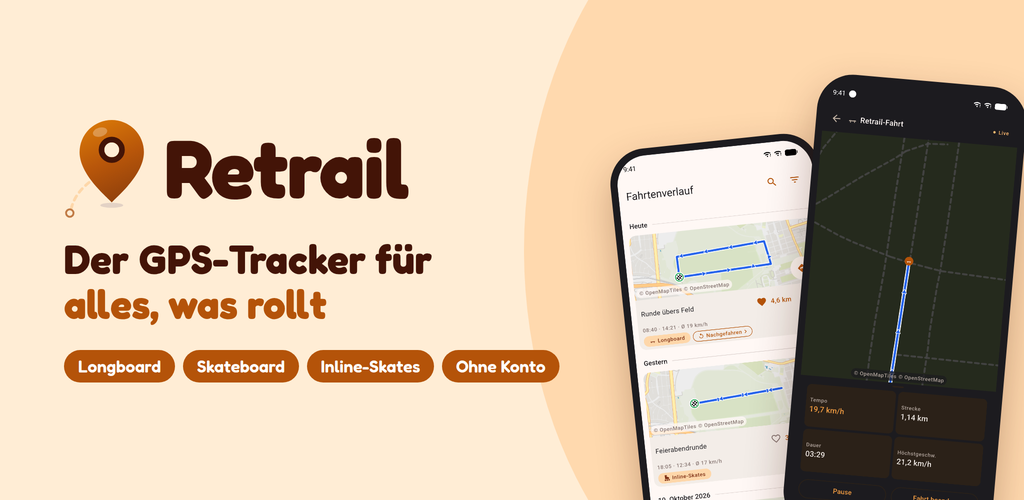
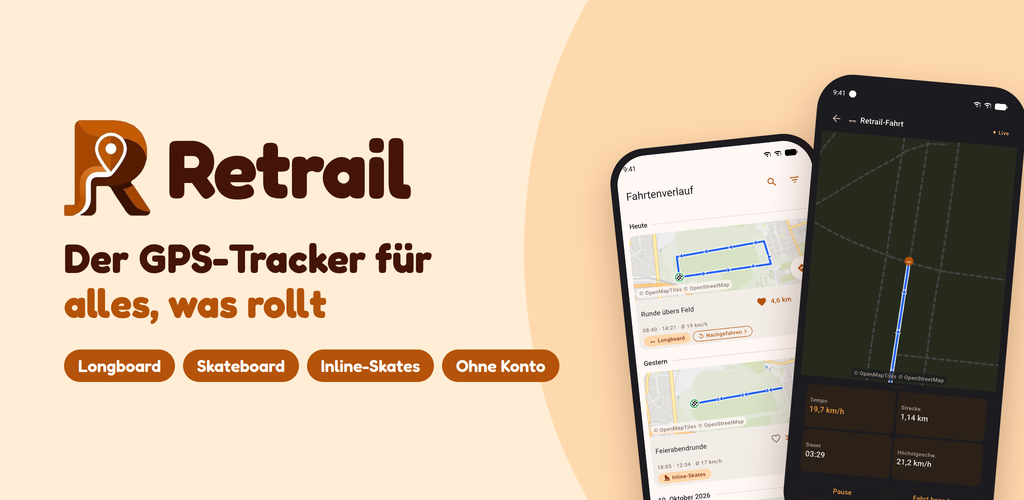
docs(store): show the new mark on the Play feature graphic
The feature graphic still drew the old pin as inline SVG. It now loads
assets/branding/retrail_mark.png; both language variants are re-rendered.

diff --git a/store/play/feature_graphic.html b/store/play/feature_graphic.html
@@ -1,7 +1,7 @@
 <!doctype html>
 <!-- Source of the Play feature graphic (1024 x 500). Render with
      tool/render_store_graphics.sh. Colours are the AppColors light tokens
-     (lib/core/theme/app_colors.dart); the mark is assets/branding/app_icon.svg. -->
+     (lib/core/theme/app_colors.dart); the mark is assets/branding/retrail_mark.png. -->
 <html lang="en">
 <head>
 <meta charset="utf-8">
@@ -16,7 +16,7 @@
   .copy { position: absolute; left: 64px; top: 0; bottom: 0; width: 540px;
           display: flex; flex-direction: column; justify-content: center; }
   .brand { display: flex; align-items: center; gap: 16px; }
-  .brand svg { width: 84px; height: 101px; }
+  .brand .mark { height: 96px; width: auto; }
   .name { font-size: 82px; font-weight: 700; letter-spacing: -1px; color: var(--title); }
   .tagline { margin-top: 18px; font-size: 40px; line-height: 1.12; font-weight: 700; color: var(--title); }
   .tagline em { font-style: normal; color: var(--accent); }
@@ -37,19 +37,7 @@
 
   <div class="copy">
     <div class="brand">
-      <svg viewBox="250 180 540 650" xmlns="http://www.w3.org/2000/svg">
-        <defs>
-          <linearGradient id="pin2" x1="420" y1="210" x2="640" y2="720" gradientUnits="userSpaceOnUse">
-            <stop offset="0" stop-color="#D97808"/><stop offset="0.5" stop-color="#B8560A"/><stop offset="1" stop-color="#8E3F0C"/>
-          </linearGradient>
-        </defs>
-        <ellipse cx="557" cy="745" rx="74" ry="16" fill="#E3D2C5"/>
-        <path d="M296 768 Q320 660 438 578" fill="none" stroke="#FED7A9" stroke-width="18" stroke-linecap="round" stroke-dasharray="30 30"/>
-        <circle cx="287" cy="795" r="24" fill="none" stroke="#C07A45" stroke-width="12"/>
-        <path fill="url(#pin2)" fill-rule="evenodd" d="M557 726 C522 688 350 548 350 403 A207 207 0 0 1 764 403 C764 548 592 688 557 726 Z M557 340 A48 48 0 1 0 557 436 A48 48 0 1 0 557 340 Z"/>
-        <circle cx="557" cy="388" r="66" fill="none" stroke="#431407" stroke-width="36"/>
-        <ellipse cx="482" cy="274" rx="47" ry="29" transform="rotate(-15 482 274)" fill="#FFFFFF" fill-opacity="0.28"/>
-      </svg>
+      <img class="mark" src="../../assets/branding/retrail_mark.png" alt="">
       <div class="name">Retrail</div>
     </div>
     <div class="tagline" id="tagline"></div>
